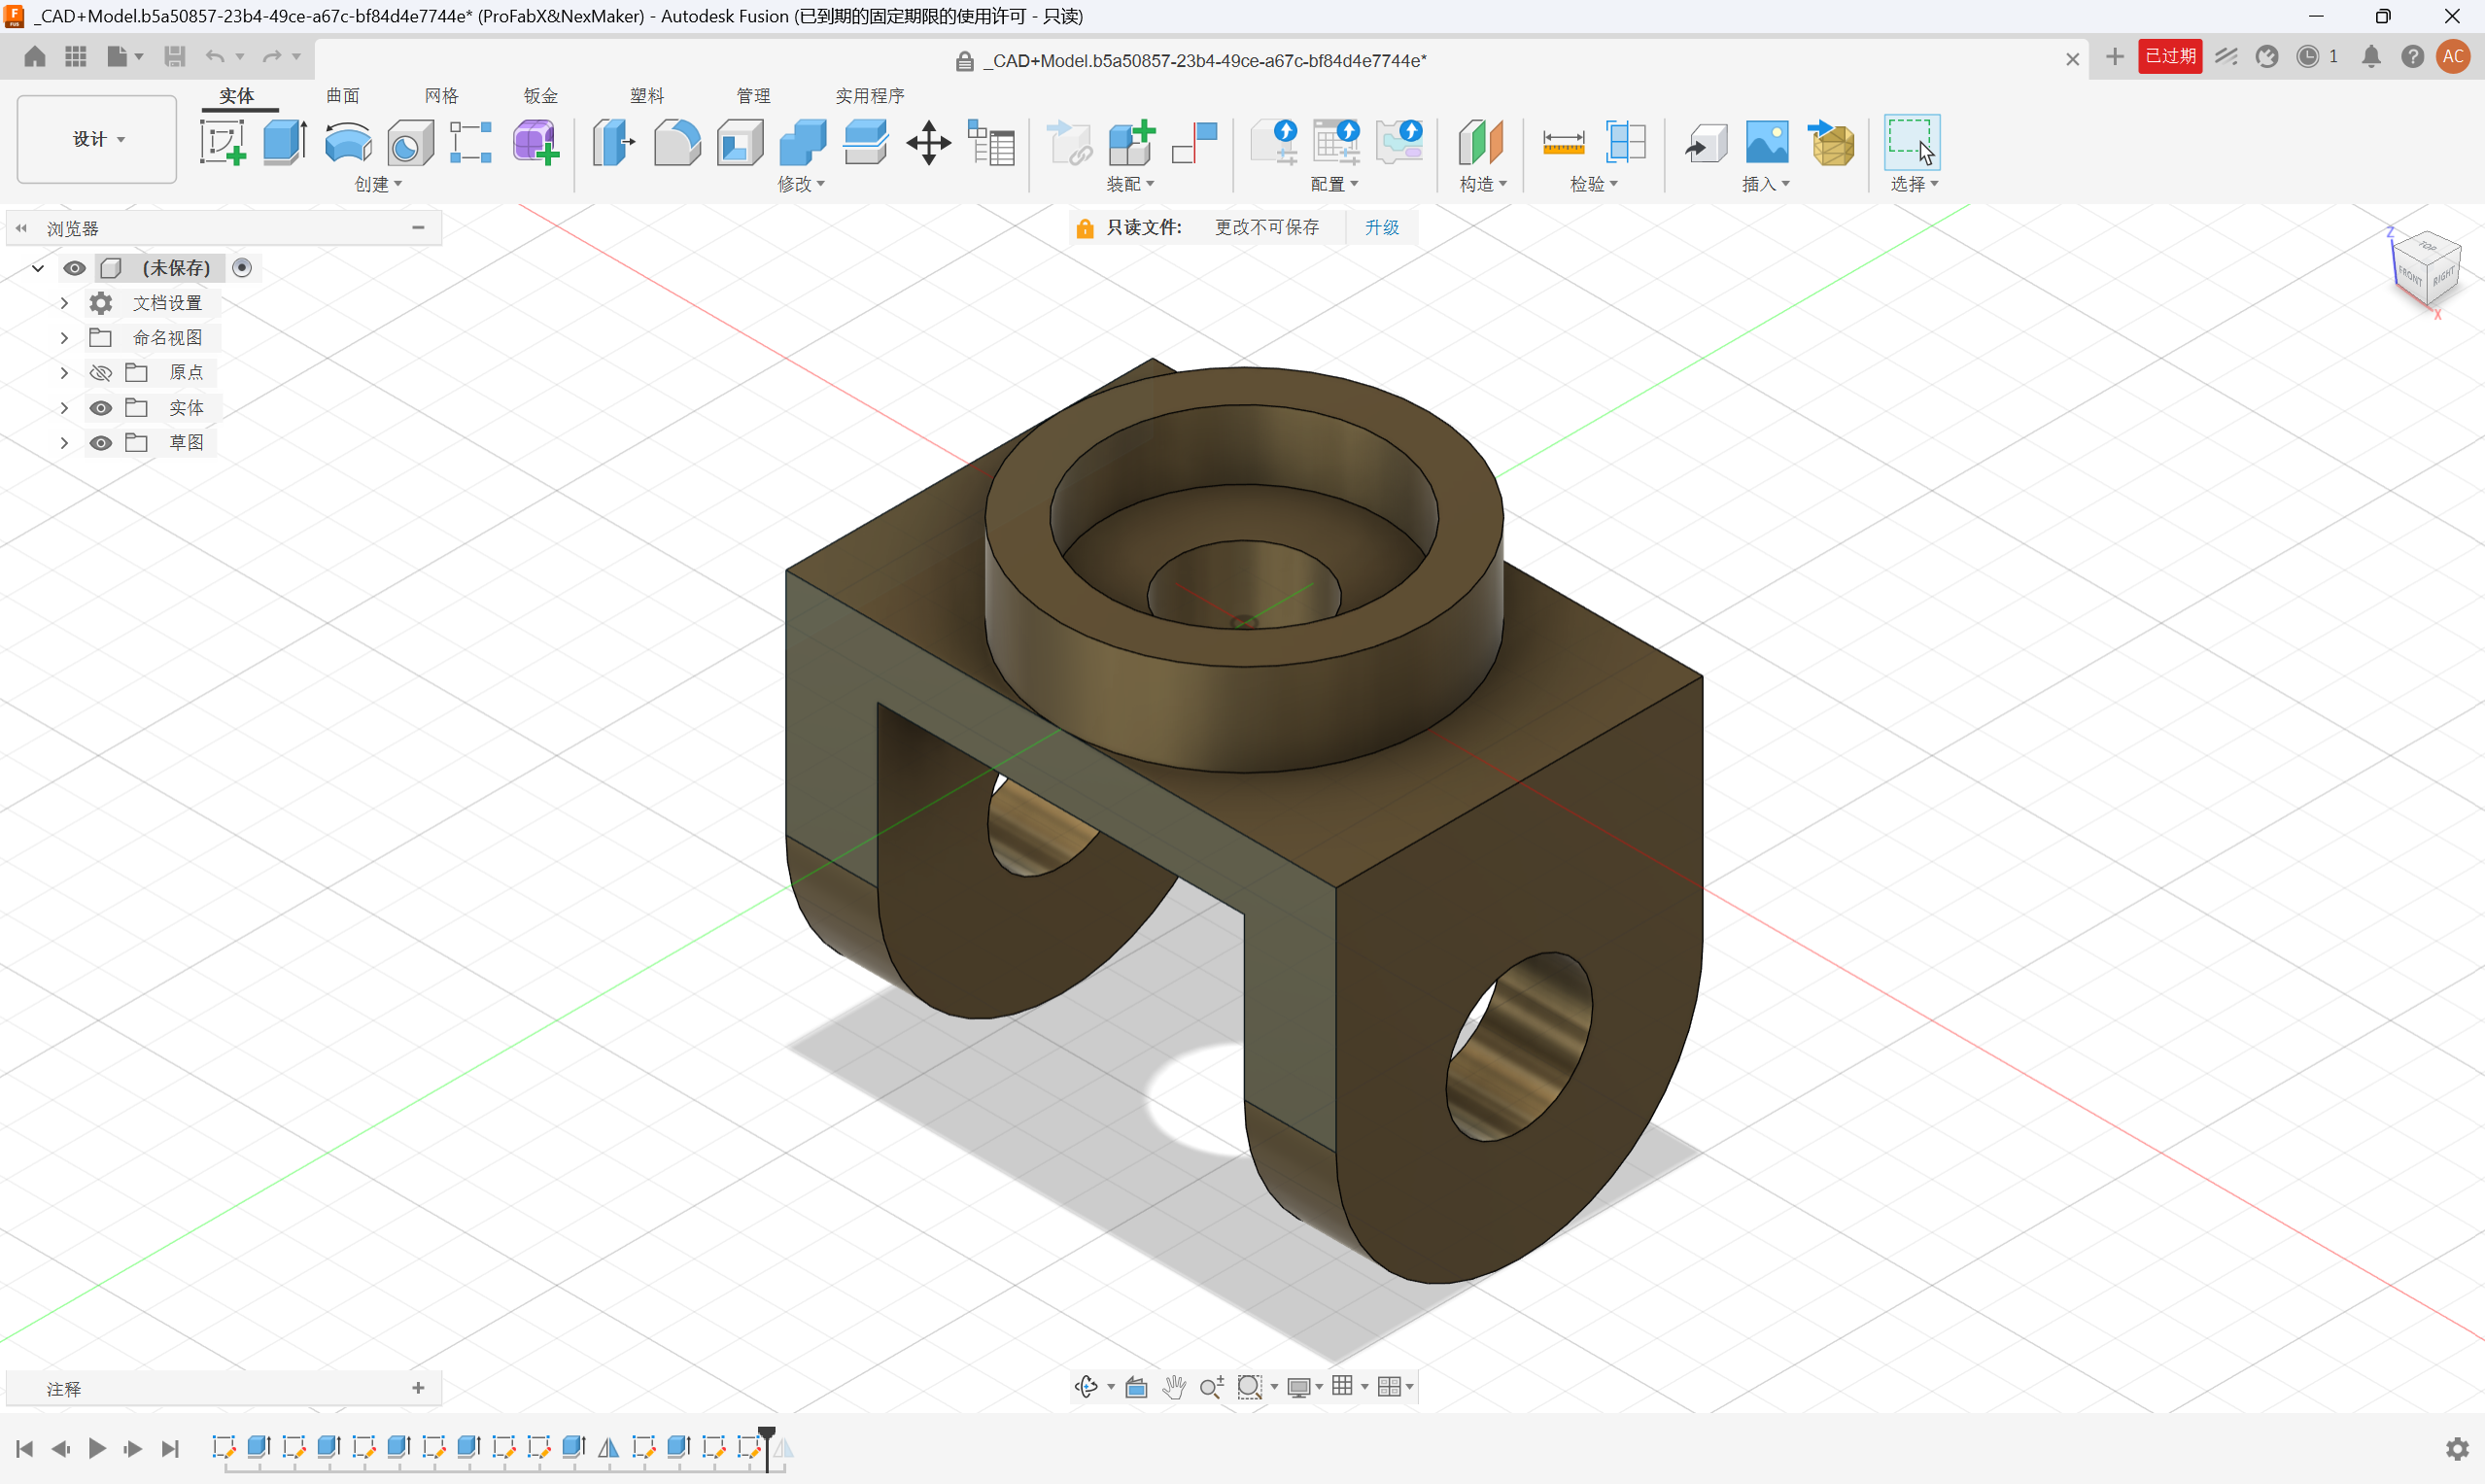
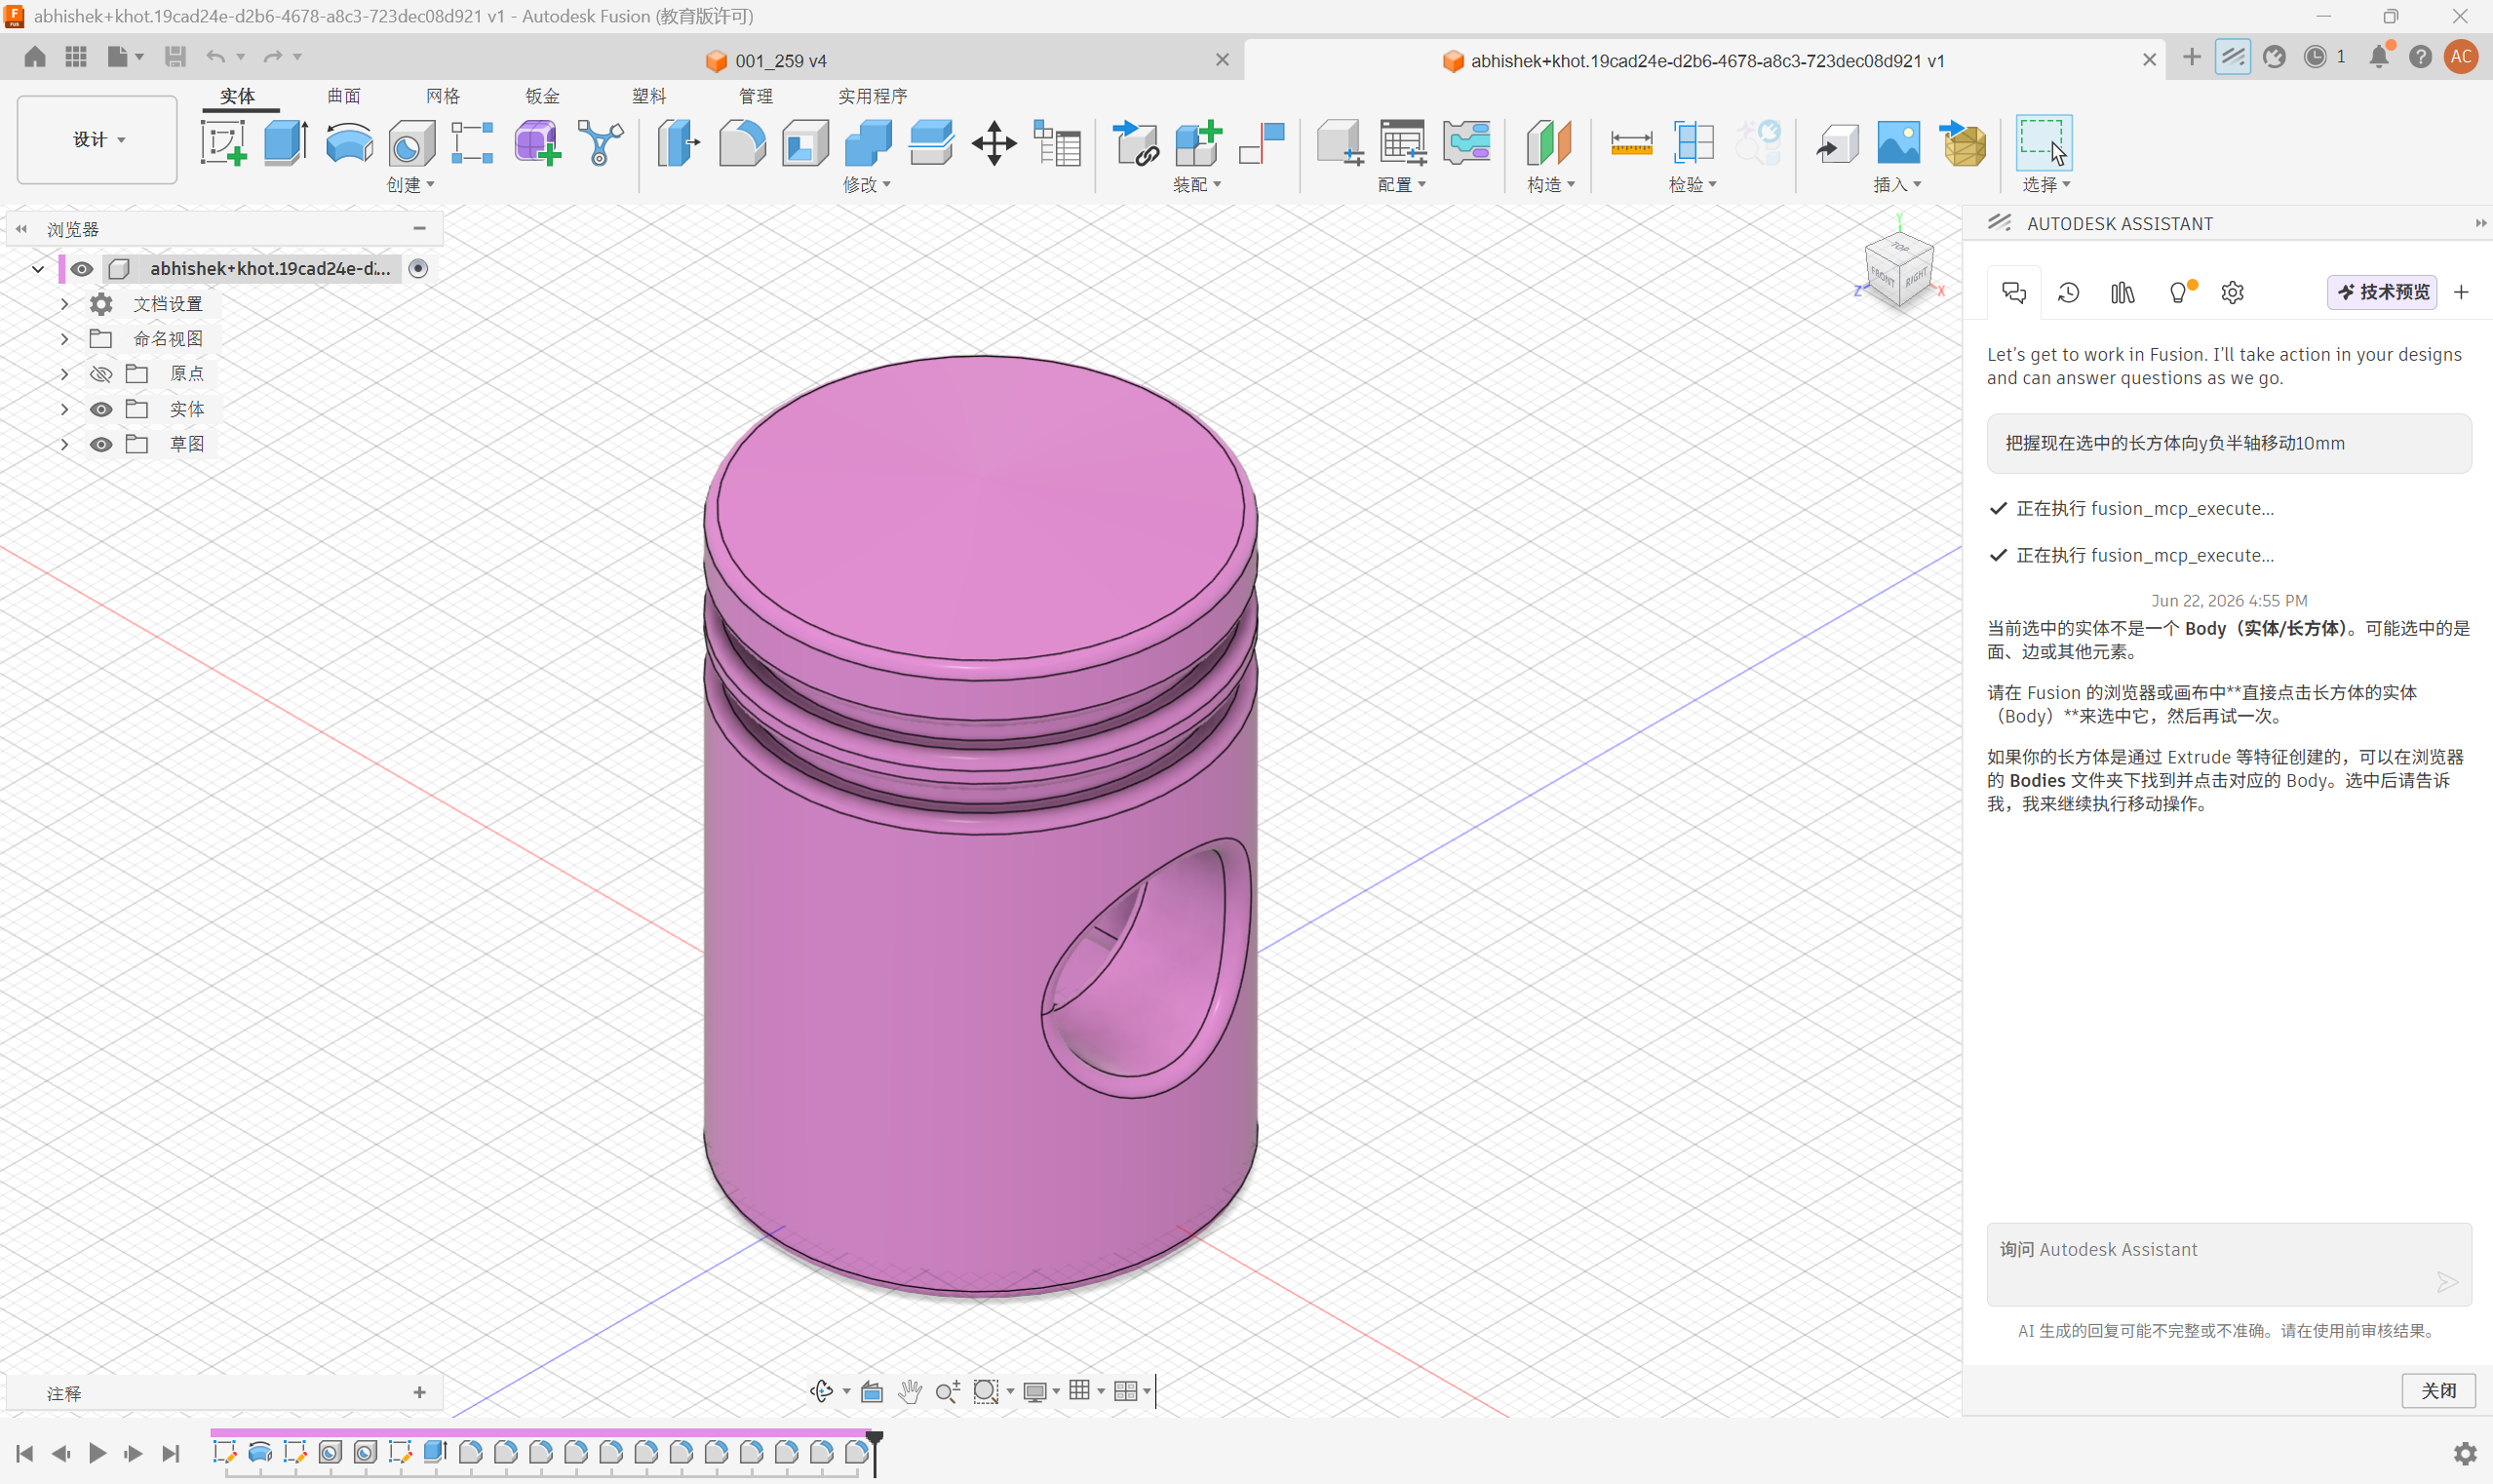
22222222

diff --git a/cad.html b/cad.html
@@ -271,10 +271,63 @@
                 
                 <div class="video-container">
                     <video controls class="demo-video" poster="image444/图片5-21.png">
-                        <source src="image444/video5-2.mp4" type="video/mp4">
+                        <source src="image444/video(5-2).mp4" type="video/mp4">
                         Your browser does not support the video tag.
                     </video>
                     <p class="video-caption">Final Render Animation - Video Demo</p>
+                </div>
+            </div>
+        </div>
+    </section>
+
+    <section class="pm-section">
+        <div class="pm-step">
+            <div class="step-header">
+                <span class="step-number">Step 6</span>
+                <h2 class="step-title">Combine Models and Create Adjustable Seat Mechanism</h2>
+                <p class="step-desc">组合模型并创建可调节座椅机制</p>
+            </div>
+
+            <div class="step-content-block">
+                <div class="detailed-intro">
+                    <p>Combine the model imported from the official Autodesk website with the model you created within the software.</p>
+                    <p>Create a cylinder and shell it to match the diameter of the piston. Generate internal threads with a depth of 10 mm inside the cylinder, and add external threads of 10 mm length at the bottom of the piston. Combine the two components and mount them under the seat. The assembled piston and base will enable height adjustment of the seat.</p>
+                </div>
+            </div>
+
+            <div class="step-images grid-2">
+                <div class="image-card">
+                    <img src="image444/图片5-22.png" alt="Cylinder Creation" class="step-image">
+                    <p class="image-caption">图片 5-22</p>
+                </div>
+                
+                <div class="image-card">
+                    <img src="image444/图片5-23.png" alt="Thread Generation" class="step-image">
+                    <p class="image-caption">图片 5-23</p>
+                </div>
+            </div>
+
+            <div class="step-images grid-2">
+                <div class="image-card">
+                    <img src="image444/图片5-24.png" alt="Component Assembly" class="step-image">
+                    <p class="image-caption">图片 5-24</p>
+                </div>
+                
+                <div class="image-card">
+                    <img src="image444/图片5-25.png" alt="Seat Installation" class="step-image">
+                    <p class="image-caption">图片 5-25</p>
+                </div>
+            </div>
+
+            <div class="step-content-block">
+                <h3 class="content-subtitle">Final Render GIF Animation</h3>
+                
+                <div class="video-container">
+                    <video controls class="demo-video" poster="image444/图片5-25.png">
+                        <source src="image444/video(5-3).mp4" type="video/mp4">
+                        Your browser does not support the video tag.
+                    </video>
+                    <p class="video-caption">Adjustable Seat Mechanism Animation - Video Demo</p>
                 </div>
             </div>
         </div>